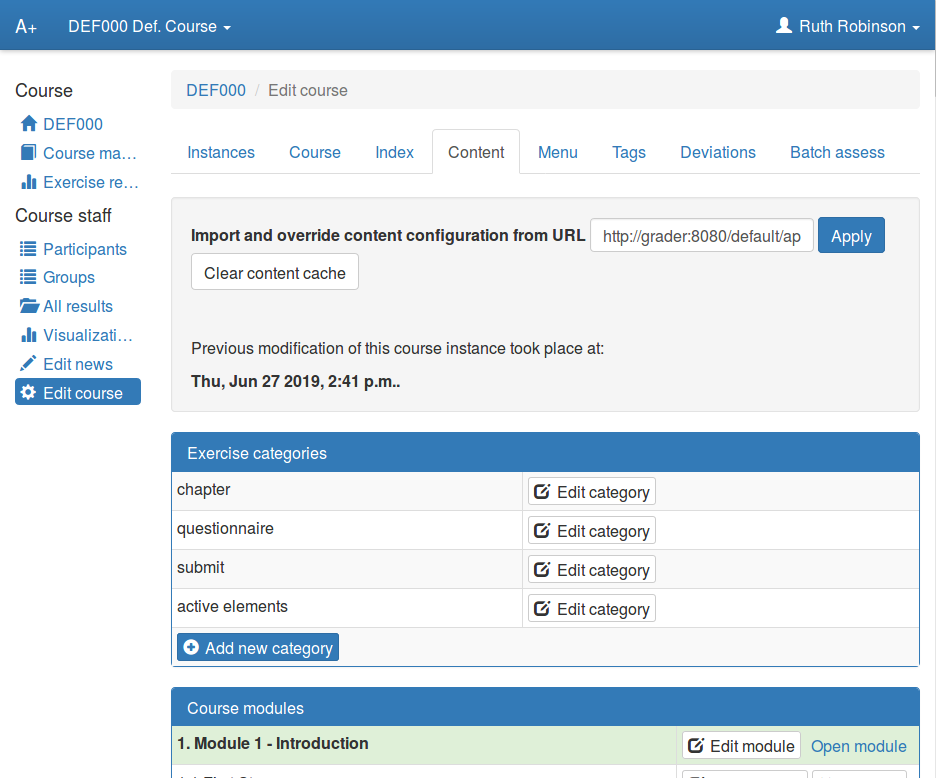
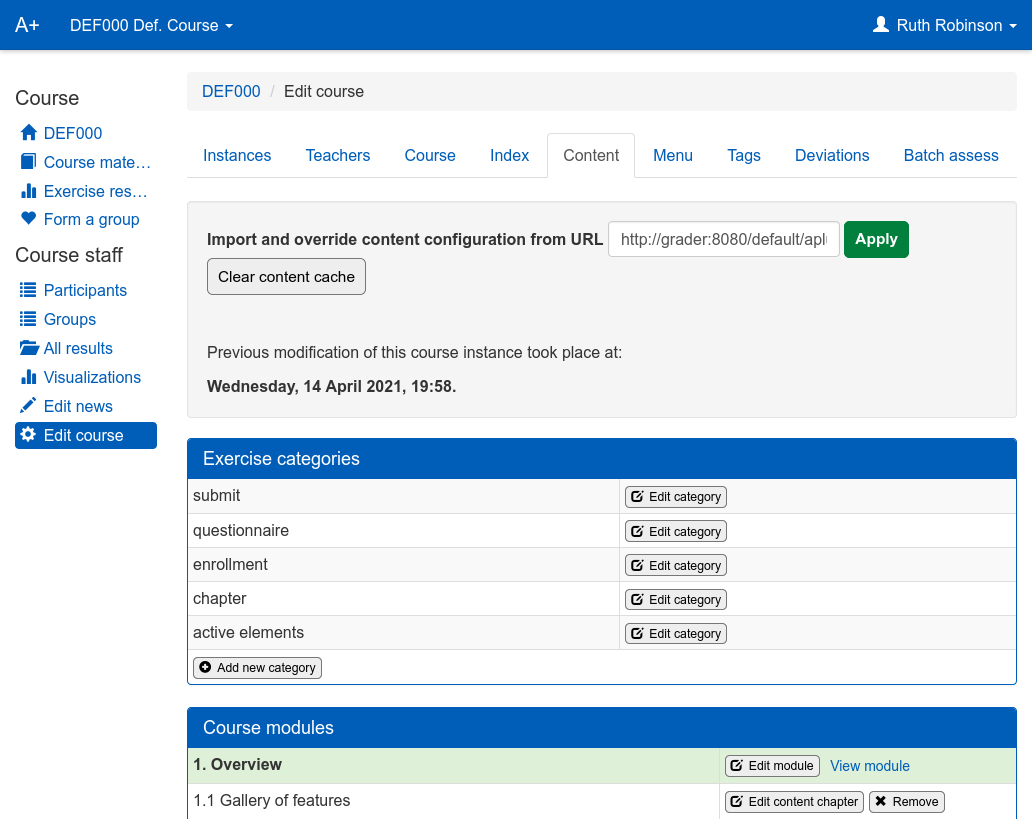
Mention the new Teachers tab
Related to a-plus#803

diff --git a/admin/settings.rst b/admin/settings.rst
@@ -41,6 +41,8 @@ The course settings page has several tabs.
 
 - The **Course** tab allows editing the course details.
 
+- The **Teachers** tab allows adding and removing teachers from the course.
+
 - The **Index** tab controls how the table of contents of the course is shown
   to the students.
 
